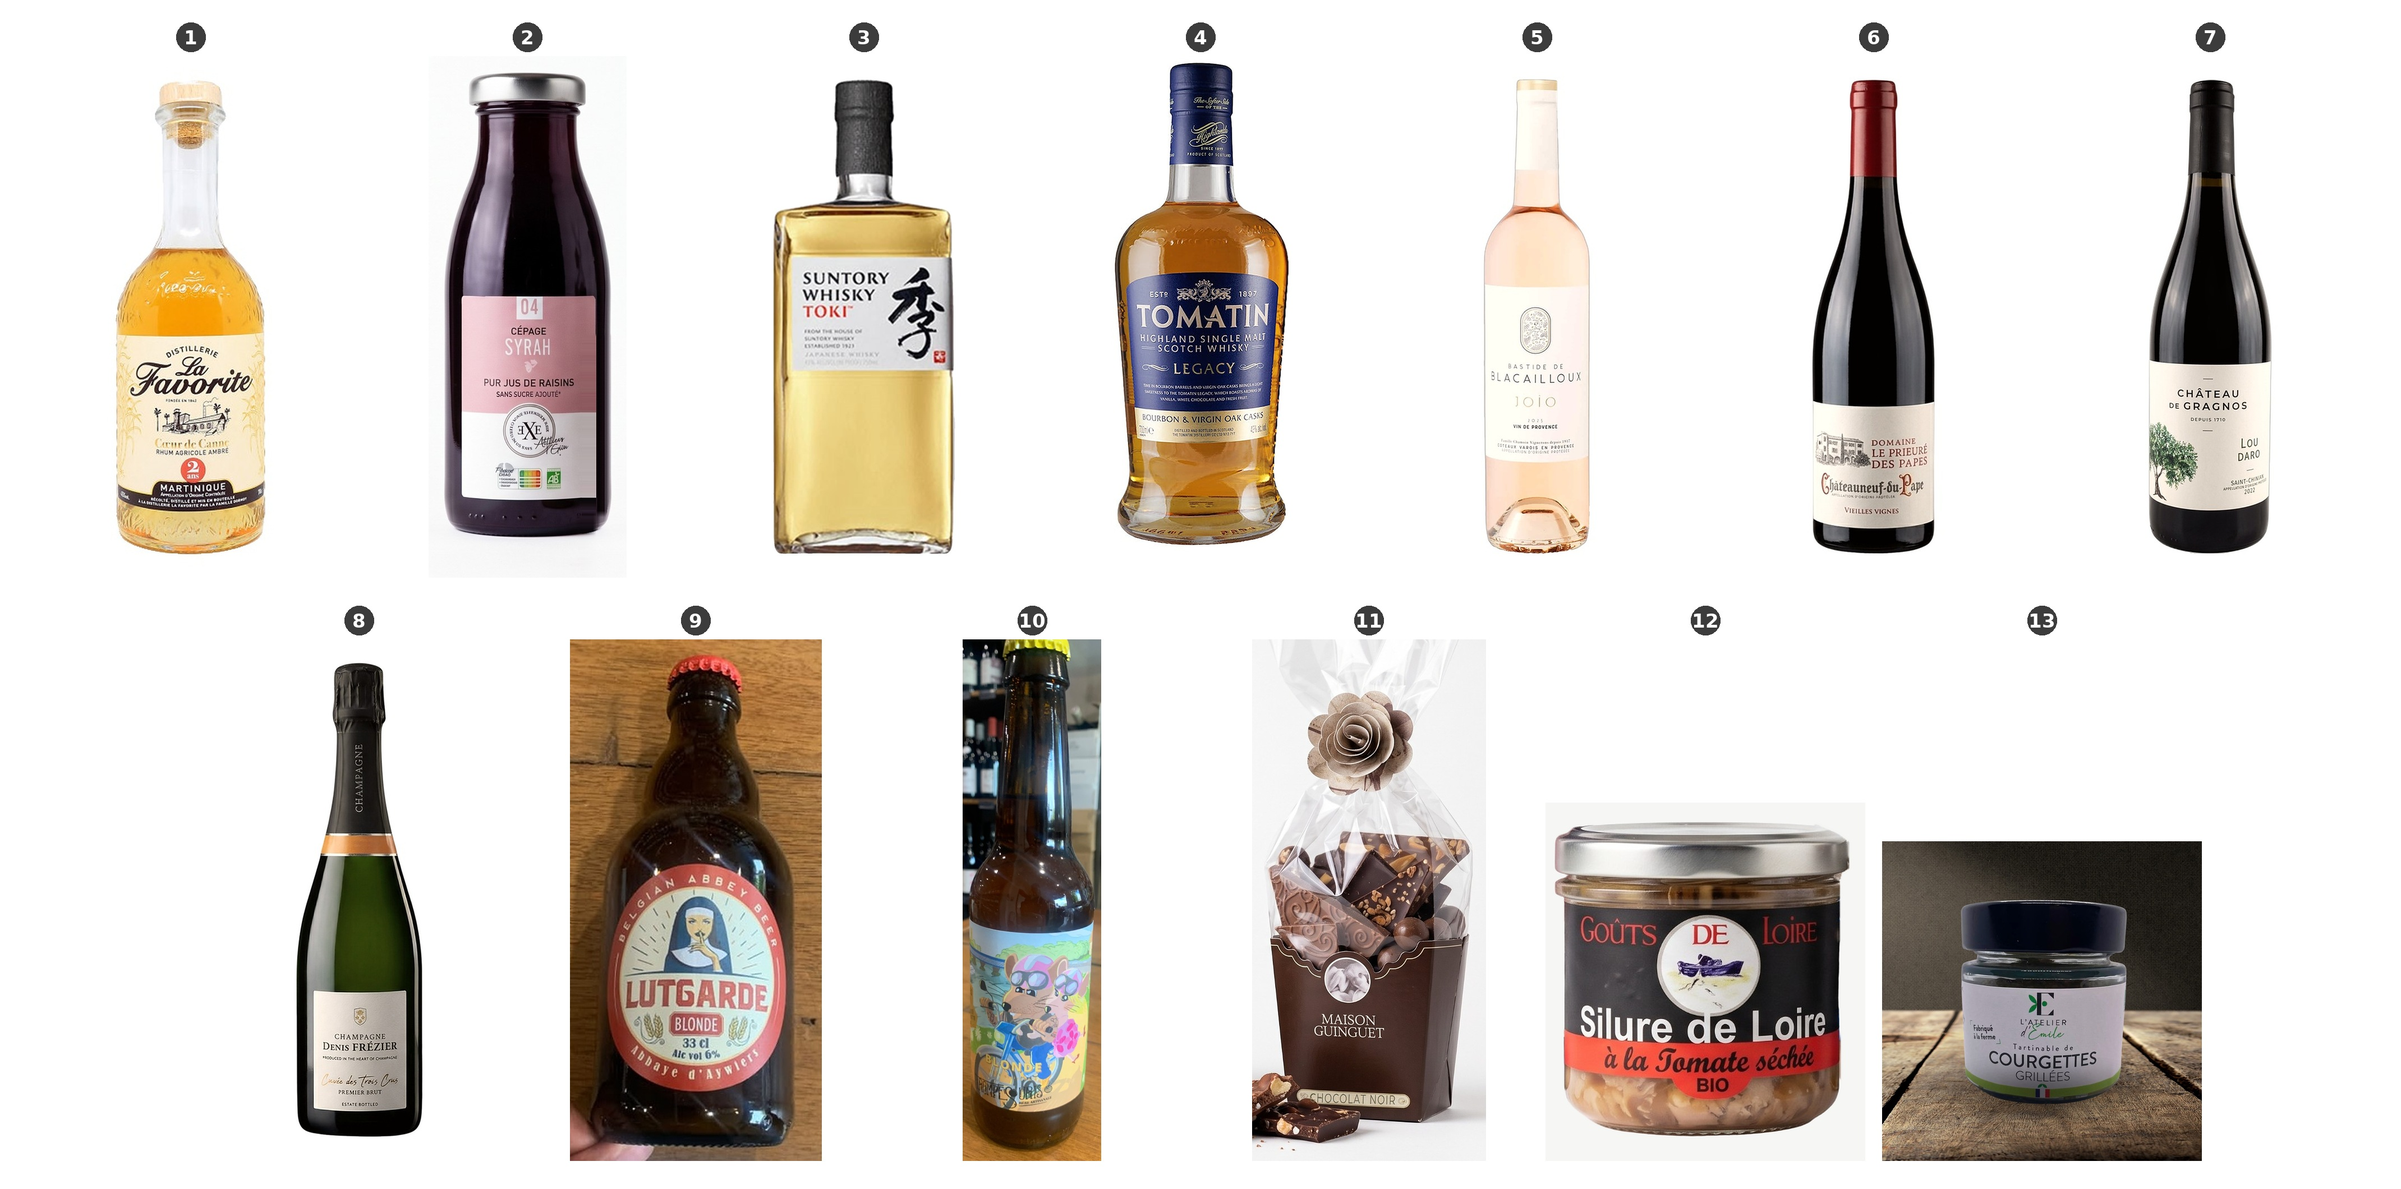
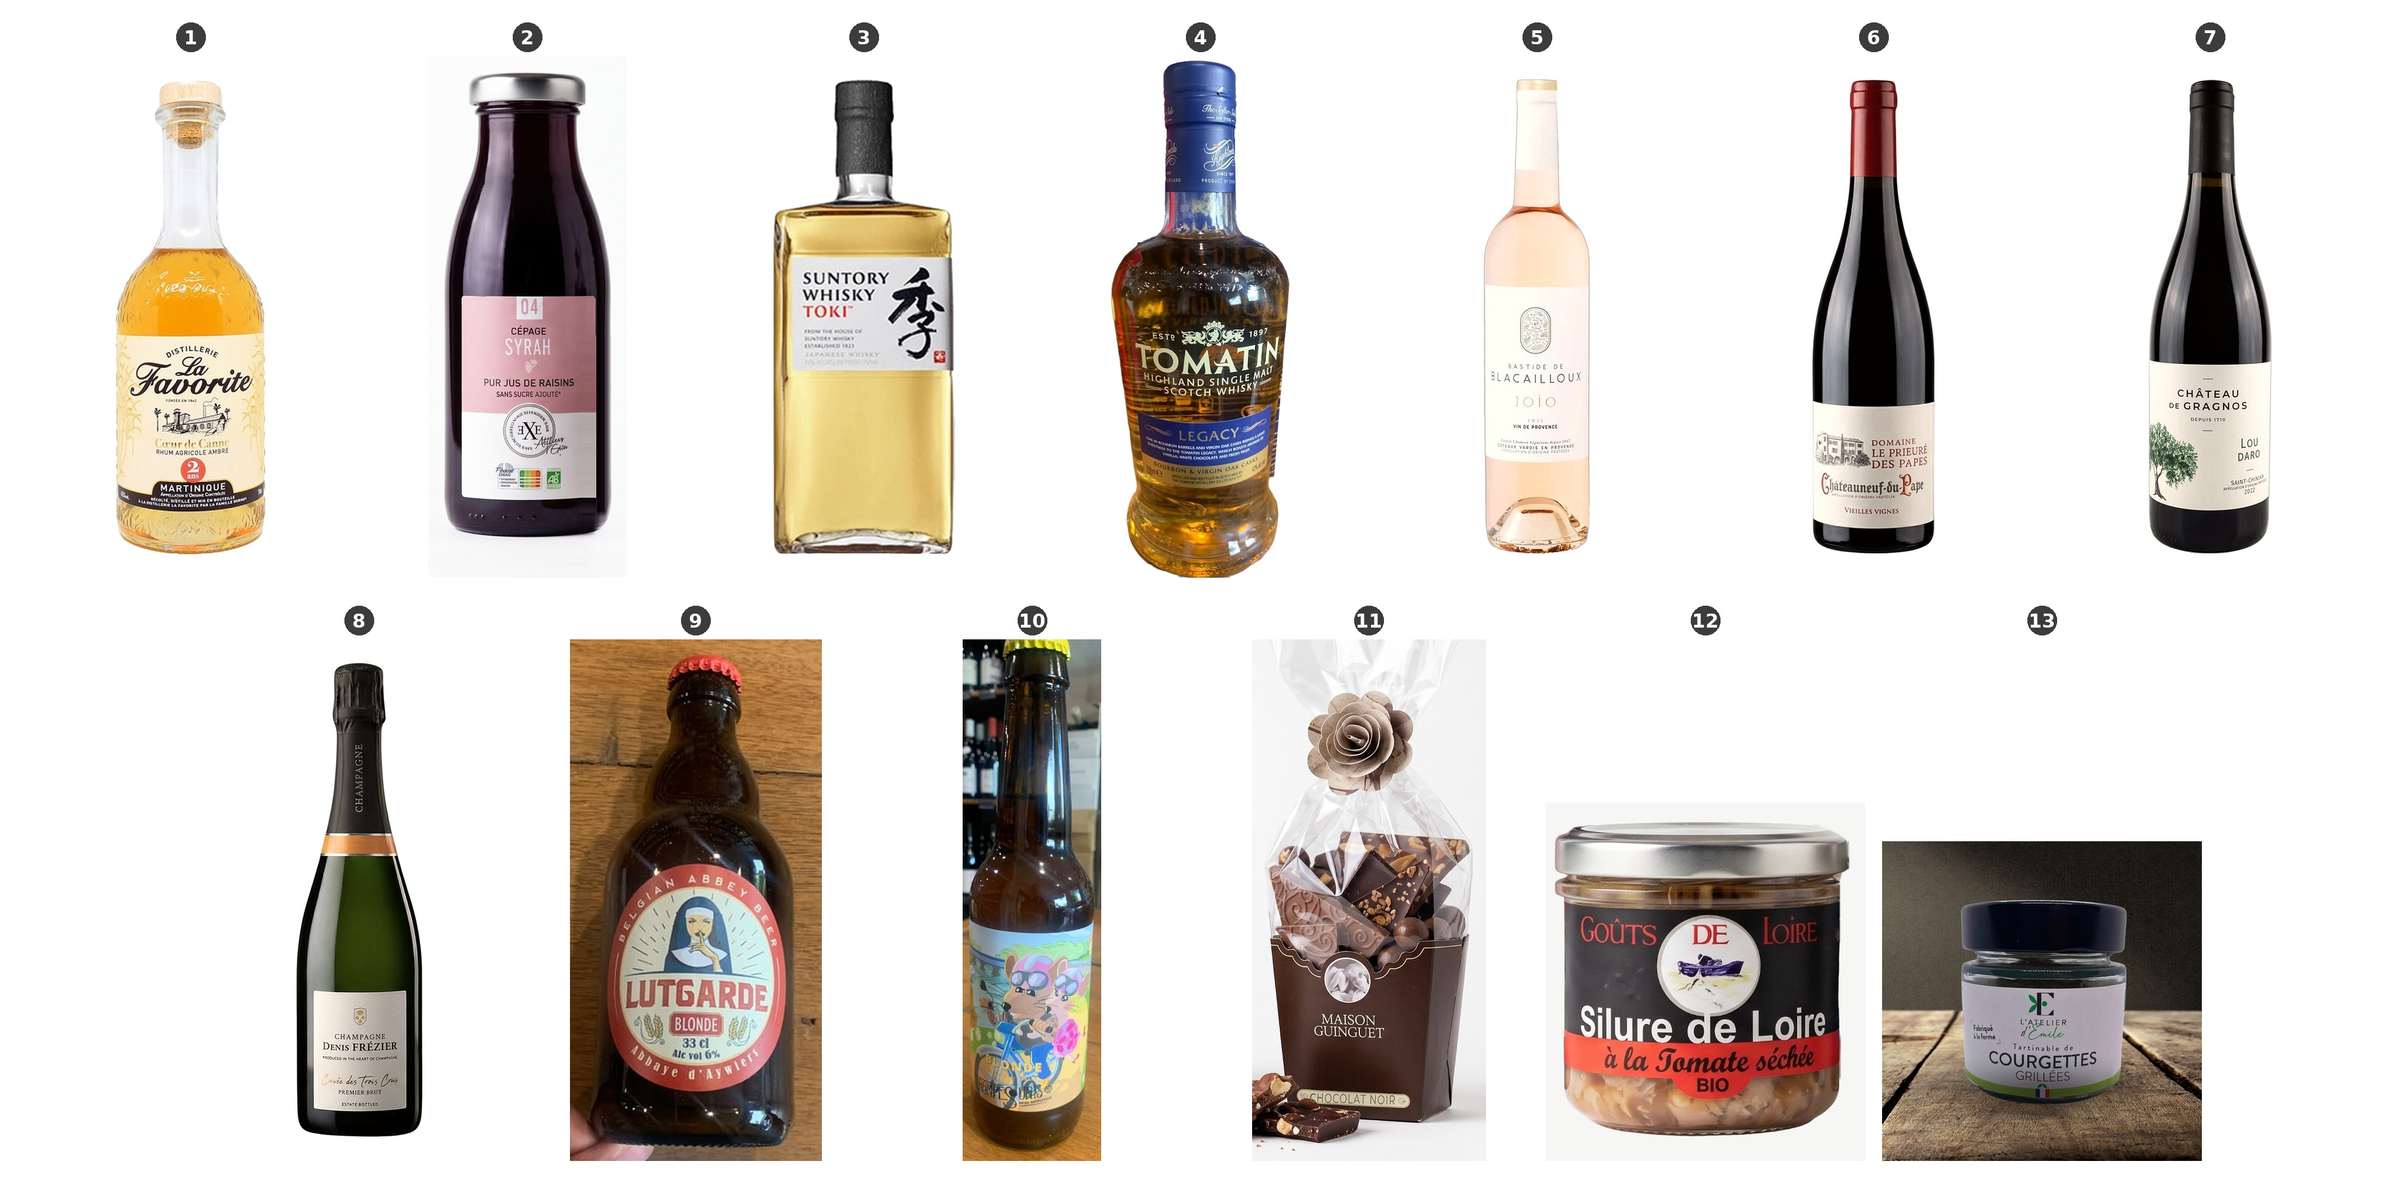
Pack dernière tentative : vraie bouteille Tomatin du magasin, prompt corrigé après relecture
- 04 : la bouteille Tomatin du magasin (haut de l'étiquette imprimé sur le verre, panneau bleu à partir de
  LEGACY), détourée sans l'étui bleu, au lieu du visuel officiel tout bleu.
- tools/prompt_derniere_tentative.py : un seul texte, deux versions complètes (14 images, ou planche +
  photo modèle pour Gemini). Corrections de la relecture : bouteilles sur une marche basse pour que les
  pots ne cachent aucune étiquette, tailles réelles, Frézier complet, SAINT-CHINIAN, ESTᴰ, JOIO, 2025,
  aucun texte cité deux fois, titres non recopiables, petits textes flous plutôt qu'inventés.

Claude-Session: https://claude.ai/code/session_01MhDWXdDg6yxkfVQXWRp9UB

Changed region(s): [[0.4661, 0.0311, 0.5593, 0.4981]]

diff --git a/panneau/tools/prompt_derniere_tentative.py b/panneau/tools/prompt_derniere_tentative.py
@@ -1,0 +1,106 @@
+"""Écrit le prompt de la dernière tentative (ChatGPT / Gemini) en deux versions complètes, à partir d'un seul
+texte commun : 14 images (une par produit + photo modèle), ou 2 images (planche numérotée + photo modèle).
+Les textes entre « » ont été transcrits puis vérifiés produit par produit sur les images du pack.
+
+Usage (depuis panneau/) :
+    python3 tools/prompt_derniere_tentative.py bouteilles-gemini/pack-derniere-tentative/PROMPT-ChatGPT-derniere-tentative.txt
+"""
+import sys
+
+IMAGES_14 = """LES IMAGES JOINTES
+- Images 1 à 13 : les produits n° 1 à n° 13, un par image. Ce sont les VRAIS produits : leur forme, leurs couleurs et leurs étiquettes doivent être recopiées fidèlement d'après ces images, sans rien redessiner ni inventer. Seul le produit compte : ignore le fond de ces photos (table en bois, étagère, main).
+- Image 14 : la photo modèle (notre composition actuelle)."""
+
+IMAGES_2 = """LES IMAGES JOINTES
+- 1re image : une planche avec les 13 VRAIS produits, numérotés de 1 à 13 dans des ronds gris. Ces numéros ne sont que des repères : ne les reproduis pas. Leur forme, leurs couleurs et leurs étiquettes doivent être recopiées fidèlement d'après cette planche, sans rien redessiner ni inventer. Seul le produit compte : ignore le fond des photos de la planche (table en bois, étagère, main).
+- 2e image : la photo modèle (notre composition actuelle)."""
+
+CORPS = """Photo publicitaire photoréaliste (une vraie photo de studio, pas une illustration) pour l'affiche A1 de ma cave à vins : les 13 produits joints réunis sur une seule photo de groupe.
+
+{images}
+La photo modèle sert pour l'ambiance : fond, lumière, reflets, ordre général des produits. Elle a deux défauts à corriger : certains produits y cachent les étiquettes d'autres, et les tailles n'y sont pas justes. Pour le placement et les tailles, suis donc COMPOSITION ci-dessous. Si un détail d'un produit diffère entre la photo modèle et l'image du produit, c'est l'image du produit qui a raison.
+
+DÉCOR ET LUMIÈRE
+Fond lie-de-vin très sombre avec un halo chaud au centre, derrière les bouteilles. Lumière de studio douce venant de la gauche, reflets blancs nets sur le verre, liquides lumineux (rhum, whiskies, rosé), noirs profonds mais détaillés. Surface sombre et brillante qui reflète doucement la base des produits.
+
+COMPOSITION
+- Les 10 bouteilles et le sachet de chocolats sont debout côte à côte sur une marche basse, noire et brillante, d'environ 10 cm de haut, qui traverse toute la photo. De gauche à droite : n° 1 rhum, n° 2 jus de raisin, n° 3 et n° 4 whiskies, n° 5 rosé, n° 6 et n° 7 vins rouges, n° 8 champagne, n° 9 et n° 10 bières, n° 11 sachet de chocolats.
+- Devant la marche, plus bas, sur la surface brillante : le n° 12 (terrine) et le n° 13 (pot de courgettes) en bas au centre, côte à côte ; et un seul petit groupe de morceaux de chocolat (ceux de l'image du n° 11) devant la bière n° 9.
+- La marche est assez haute pour que les deux pots et les morceaux de chocolat ne cachent aucune étiquette. Les produits sont légèrement espacés : aucun ne cache l'étiquette d'un autre.
+- Exactement 13 produits, chacun une seule fois.
+- Tailles réelles, à respecter entre elles : vins et champagne ≈ 30 cm ; rhum ≈ 27 cm ; Tomatin ≈ 26 cm ; Toki ≈ 25 cm ; bière n° 10 ≈ 23 cm (fine) ; sachet de chocolats ≈ 23 cm ; bière n° 9 ≈ 19 cm (trapue) ; jus de raisin ≈ 17 cm ; terrine ≈ 8 cm (aussi large que haute) ; pot de courgettes ≈ 8,5 cm (plus haut que large).
+- Rien de coupé : de la marge tout autour, le bas des pots et leurs reflets compris.
+
+LES 13 PRODUITS
+Les titres (avant les deux-points) ne sont que des repères pour toi : sur les produits, n'écris QUE les textes entre « ». Recopie chacun EXACTEMENT (orthographe, accents, majuscules), une seule fois, à sa place sur son produit (seul « CHAMPAGNE » apparaît deux fois, sur le n° 8 : sur la coiffe et sur l'étiquette). Tous les autres petits textes des étiquettes : rends-les flous et illisibles, comme sur une vraie photo vue de loin ; ne les écris jamais lisiblement.
+
+N° 1, rhum : bouteille droite au corps large, épaules arrondies et long col droit, verre transparent, rhum ambré doré, bouchon à tête en bois clair (pas de capsule). Étiquette crème bordée de cannes à sucre dorées, gravure d'une distillerie au centre. Textes : « DISTILLERIE » (en arc), « La Favorite » (grande écriture script brun-noir, sur deux niveaux comme sur l'image), « Cœur de Canne » (doré, avec la lettre œ), « RHUM AGRICOLE AMBRÉ », pastille rouge « 2 ans » (en blanc, le chiffre au-dessus du mot), bandeau brun foncé « MARTINIQUE ».
+
+N° 2, jus de raisin : petite bouteille ronde type bouteille de lait, capsule en métal argenté, jus presque noir aux reflets prune. Étiquette rose en haut, blanche en bas. Textes : « 04 » (petite case blanche en haut), « CÉPAGE », « SYRAH » (grand, en blanc), « PUR JUS DE RAISINS », « SANS SUCRE AJOUTÉ* », sceau rond « ƎXE » (le premier E retourné en miroir), logo bio vert « AB ».
+
+N° 3, whisky : bouteille carrée en verre épais, gros bouchon noir mat, whisky or pâle. Étiquette blanc cassé. À gauche : « SUNTORY », « WHISKY » (noir), « TOKI™ » (rouge), « FROM THE HOUSE OF », « SUNTORY WHISKY », « JAPANESE WHISKY ». À droite : le grand idéogramme japonais « 季 » tracé au pinceau noir, avec un petit sceau carré rouge, exactement comme sur l'image.
+
+N° 4, whisky : bouteille ronde à larges épaules et pied évasé, whisky ambre doré, capsule bleu nuit avec « Highlands » en écriture script dorée. Le haut de l'étiquette est TRANSPARENT : « EST » suivi d'un petit D surélevé et souligné, un blason argenté et « 1897 », puis « TOMATIN » (grand), « HIGHLAND SINGLE MALT » et « SCOTCH WHISKY », imprimés en blanc crème directement sur le verre (on voit le whisky derrière). Plus bas seulement, un panneau bleu marine avec « LEGACY » (doré, entre deux ornements) et un petit paragraphe flou, puis un bandeau crème « BOURBON & VIRGIN OAK CASKS » (lettres bleu marine).
+
+N° 5, rosé : bouteille élancée en verre extra-blanc, rosé très pâle couleur pêche, capsule crème à liseré doré. Étiquette blanche avec un petit médaillon gravé en haut. Textes : « BASTIDE DE », « BLACAILLOUX », « JOIO » (lettres très fines or pâle ; le I est surmonté d'un point détaché), « 2025 » (petit), « VIN DE PROVENCE ».
+
+N° 6, vin rouge : bouteille bourguignonne en verre noir, capsule bordeaux brillante. Étiquette crème placée bas, gravure du domaine à gauche. Textes : « DOMAINE », « LE PRIEURÉ », « DES PAPES » (serif brun-rouge), « Châteauneuf-du-Pape » (lettres gothiques), « VIEILLES VIGNES ».
+
+N° 7, vin rouge : bouteille bourguignonne en verre noir, capsule noire. Étiquette ivoire avec un arbre dessiné en bas à gauche. Textes : « CHÂTEAU », « DE GRAGNOS », « DEPUIS 1710 » ; à droite « LOU » (le L un peu plus haut que les deux autres lettres), « DARO », « SAINT-CHINIAN » (la dernière lettre est bien un N), « 2022 ».
+
+N° 8, champagne : bouteille de champagne en verre vert olive foncé, coiffe noire avec « CHAMPAGNE » écrit verticalement en argent, collerette cuivrée. Étiquette blanc cassé avec un petit écusson en haut. Textes : « CHAMPAGNE », « DENIS FRÉZIER » (en petites capitales, initiales plus hautes), « PRODUCED IN THE HEART OF CHAMPAGNE » (petit), « Cuvée des Trois Crus » (écriture manuscrite : le premier mot en or pâle, la suite en noir), « PREMIER BRUT », « ESTATE BOTTLED » (petit).
+
+N° 9, bière : petite bouteille trapue en verre brun très foncé, capsule rouge. Étiquette ovale : anneau rouge et centre crème avec une religieuse au voile bleu marine. Textes : « BELGIAN ABBEY BEER » (en arc en haut), « LUTGARDE » (grand, rouge), « BLONDE » (dans un cartouche rouge), « 33 cl », « Alc vol 6% », « Abbaye d'Aywiers » (en arc en bas).
+
+N° 10, bière : bouteille de bière élancée (long neck) en verre brun ambré, bière blonde, capsule jaune. Étiquette entièrement illustrée, sans cadre, recopiée exactement d'après l'image : deux souris sur une mobylette bleue, toutes deux avec un casque rose et des lunettes, le mot « BLONDE » en jaune, et en bas le nom de la bière en grandes lettres noires fines, tel qu'il apparaît sur l'image.
+
+N° 11, chocolats : sachet en cellophane transparent fermé par une rose en papier beige, rempli d'éclats de chocolat et de billes chocolatées, posé dans un étui en carton brun chocolat au bord festonné doré. Textes : « MAISON » et « GUINGUET » (crème, sous un médaillon rond), bandeau crème « CHOCOLAT NOIR ».
+
+N° 12, terrine : verrine basse, couvercle en métal argenté, chair de poisson beige visible sous l'étiquette. Étiquette noire. Textes : « GOÛTS », « DE », « LOIRE » (serif rouge en petites capitales, première lettre plus haute, le I de la fin pointé ; le mot du milieu est en haut du médaillon blanc), médaillon blanc avec une barque bleue dessinée, « Silure de Loire » (blanc, très gras), bande rouge « à la Tomate séchée » (écriture script brun-noir), languette rouge « BIO ».
+
+N° 13, pot de courgettes : pot en verre, capsule noire brillante, tartinade vert foncé. Étiquette blanche. Textes : monogramme « E » noir géométrique (un rond vert à la place de la barre du milieu, deux feuilles vertes à gauche), « L’ATELIER », « d’Emile » (écriture script, le prénom en vert, sans accent sur le E), à gauche « Fabriqué » / « à la ferme » sur deux lignes entre deux petits coins d'angle, « Tartinable de », « COURGETTES » (gras), « GRILLÉES », bande vert clair en bas avec un petit drapeau français.
+
+INTERDIT
+Aucun texte ajouté, aucun filigrane, aucun logo inventé, aucun produit en plus ou en double, aucune étiquette redessinée à la manière de l'originale. Ne change ni les couleurs des étiquettes ni la forme des bouteilles.
+
+FORMAT
+Paysage 16:9, la plus haute définition possible, mise au point nette sur toutes les étiquettes."""
+
+TRAIT = '-' * 96
+
+ENTETE = f"""=== DERNIÈRE TENTATIVE : CHATGPT (génération d'images) ===
+
+VERSION A (conseillée) : 14 images
+1. Ouvre une NOUVELLE conversation sur chatgpt.com (site web, pas l'appli téléphone).
+   Si tu as un abonnement, choisis le modèle « Thinking » : il gère mieux les images complexes.
+2. Joins les 14 images DANS L'ORDRE, en un seul message : 01_... 02_... jusqu'à 14_composition_actuelle_modele.jpg
+   (ChatGPT web accepte jusqu'à 20 fichiers par message). N'envoie PAS la 15 (planche).
+3. Colle tout le texte de la VERSION A (entre les deux lignes de tirets), puis envoie.
+4. Envoie-moi l'image obtenue : je vérifie chaque étiquette à la loupe et je recolle les vraies là où il
+   faut, comme pour la version actuelle.
+
+VERSION B : 2 images, si ChatGPT refuse 14 images, ou pour Gemini (10 images maximum)
+Joins dans cet ordre : 15_planche_13_produits.jpg puis 14_composition_actuelle_modele.jpg,
+et colle tout le texte de la VERSION B. Dans Gemini, choisis le modèle « Pro » ou « Thinking », pas « Rapide ».
+"""
+
+
+def main():
+    a = CORPS.format(images=IMAGES_14)
+    b = CORPS.format(images=IMAGES_2).replace("d'après l'image", "d'après la planche").replace(
+        "entre la photo modèle et l'image du produit, c'est l'image du produit qui a raison",
+        "entre la photo modèle et la planche, c'est la planche qui a raison").replace(
+        "(ceux de l'image du n° 11)", "(ceux du n° 11 sur la planche)").replace(
+        "exactement comme sur l'image", "exactement comme sur la planche").replace(
+        "tel qu'il apparaît sur l'image", "tel qu'il apparaît sur la planche").replace(
+        "sur deux niveaux comme sur l'image", "sur deux niveaux comme sur la planche")
+    texte = (ENTETE + f"\n\n=== VERSION A : 14 IMAGES ===\n{TRAIT}\n{a}\n{TRAIT}\n\n\n"
+             f"=== VERSION B : PLANCHE + PHOTO MODÈLE (2 IMAGES) ===\n{TRAIT}\n{b}\n{TRAIT}\n")
+    open(sys.argv[1], 'w').write(texte)
+    print(sys.argv[1], len(a.split()), 'mots (version A)')
+    reste = [m for m in ("l'image", 'image 14', 'Image 14') if m in b]
+    print('version B, références à une image restantes :', reste or 'aucune')
+
+
+if __name__ == '__main__':
+    main()

diff --git a/panneau/tools/pack_references.py b/panneau/tools/pack_references.py
@@ -127,6 +127,53 @@ def tomatin():
     return Image.fromarray(a.clip(0, 255).astype(np.uint8)).crop((40, 0, 420, 876))
 
 
+def tomatin_magasin():
+    """La vraie bouteille Tomatin du magasin (haut de l'étiquette imprimé sur le verre, panneau bleu à partir de
+    LEGACY), détourée (BiRefNet). L'étui bleu derrière, à droite, est retiré : bord droit relevé à la main sur la
+    photo (la bouteille penche un peu, pas de symétrie simple) ; au niveau du col, symétrie du bord gauche."""
+    import os
+    import cv2
+    im = Image.open(N / 'whisky_Tomatin_Legacy_photo.jpg').convert('RGB')
+    cache = os.environ.get('CACHE_TOMATIN')
+    if cache and os.path.exists(cache):
+        al = np.load(cache).astype(np.float32) / 255
+    else:
+        from rembg import new_session, remove
+        al = np.array(remove(im, session=new_session('birefnet-general')))[..., 3].astype(np.float32) / 255
+    H, W = al.shape
+    bord_d = np.interp(np.arange(H), [400, 550, 600, 700, 750], [324, 312, 308, 300, 296])
+    x = np.arange(W)
+    for y in range(H):
+        if y < 400:
+            # col et épaules : segment qui contient l'axe, bord droit = symétrique du gauche (axe x ≈ 166,5)
+            if al[y, 166] <= 0.5:
+                continue
+            g = 166
+            while g > 0 and al[y, g - 1] > 0.5:
+                g -= 1
+            al[y, :g] = 0                      # trait vertical isolé du décor à gauche
+            d = 2 * (166.5 + max(0, y - 330) * 0.02) - g
+        elif y <= 750:
+            d = bord_d[y]                      # bord droit relevé à la main (étui bleu derrière)
+        else:
+            continue
+        al[y] *= np.clip(d + 1 - x, 0, 1)
+    # étui bleu vu à travers / derrière le bord droit du verre (x > 292, à droite de l'étiquette) :
+    # remplacé par le verre doré de la même ligne, assombri vers le bord
+    a = np.array(im).astype(np.float32)
+    for y in range(330, 760):
+        x0 = 292
+        ref = a[y, x0 - 6:x0].mean(axis=0)
+        for x in range(x0, W):
+            r, g_, b = a[y, x]
+            if b > r + 15 or (b > 90 and b > g_):
+                t = min(1.0, (x - x0) / 30)
+                a[y, x] = ref * (1 - 0.35 * t)
+    al = cv2.GaussianBlur(al, (0, 0), 0.6)[..., None]
+    out = a * al + 255 * (1 - al)
+    return Image.fromarray(out.clip(0, 255).astype(np.uint8))
+
+
 def main():
     sortie = Path(sys.argv[1])
     sortie.mkdir(parents=True, exist_ok=True)
@@ -134,7 +181,7 @@ def main():
         ('01_rhum_La_Favorite_Coeur_de_Canne', Image.open(B / '8_rhum_La_Favorite_Coeur_de_Canne.jpg')),
         ('02_jus_de_raisin_Syrah', syrah()),
         ('03_whisky_Suntory_Toki', Image.open(B / '1_whisky_Suntory_Toki.jpg')),
-        ('04_whisky_Tomatin_Legacy', tomatin()),
+        ('04_whisky_Tomatin_Legacy', tomatin_magasin()),
         ('05_rose_Bastide_de_Blacailloux_JOIO', Image.open(B / '2_rose_Bastide_de_Blacailloux.jpg')),
         ('06_rouge_Chateauneuf-du-Pape_Prieure_des_Papes', Image.open(B / '4_rouge_Chateauneuf-du-Pape_Prieure_des_Papes.jpg')),
         ('07_rouge_Chateau_de_Gragnos_Lou_Daro', Image.open(B / '3_rouge_Chateau_de_Gragnos_Lou_Daro.jpg')),
